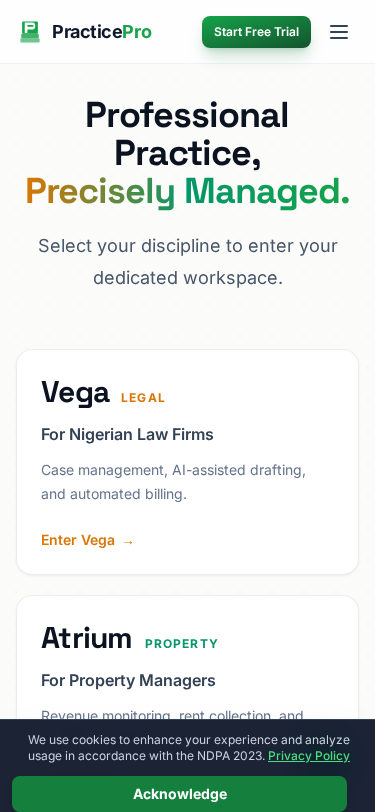
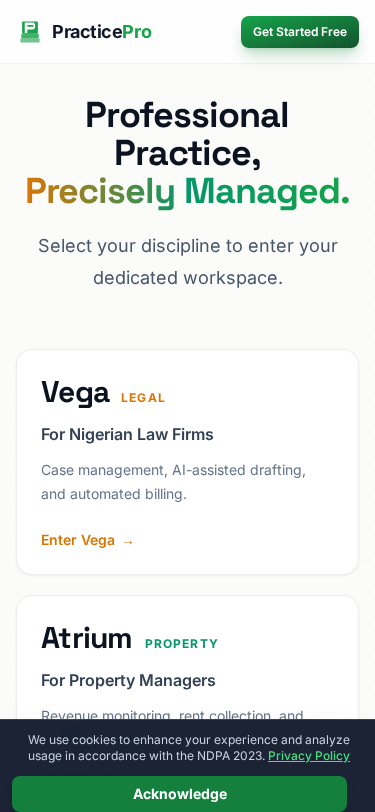
fix: How It Works legibility + product separation + pricing audit changes
How It Works Section:
- Changed 01/02/03 to 1/2/3 (per user request)
- Made step numbers legible: text-slate-100 → solid accent color (amber for Vega, emerald for Atrium)
- Added product-specific steps: Vega steps mention Matter Ingestion Wizard + DraftPro; Atrium steps mention property/tenant setup + rent collection
- Added colored card backgrounds with borders for visual separation
- Fixed truthfulness: 'Matter Intake Wizard' → 'Matter Ingestion Wizard' (the bulk-import wizard is MatterIngestionWizard.tsx, not MatterIntakeWizard.tsx)
- Fixed truthfulness: Atrium step 2 no longer claims the onboarding wizard imports properties (it only creates workspace + plan; property import is manual or via paid Managed Data Migration service)
- Fixed truthfulness: Atrium step 3 changed 'Paystack' to 'bank transfer with proof upload' (Paystack is built but dormant until env vars are flipped)
- FAQ Paystack answer updated to reflect current activation status

Pricing Audit (per PracticePro_Pricing_Audit.pdf):
- Fixed Core naming collision: Vega Core label → 'Free', Atrium Core label → 'Starter' (id stays 'Core' for DB compat)
- Added Atrium monthly billing: Starter N49K/mo, Growth N96.5K/mo, Pro N200K/mo (20% premium over annual)
- Billing toggle now shows for BOTH Vega and Atrium (was Vega-only)
- Fixed Komplete: N2.5M → N2.2M/yr, 10 seats → unlimited seats, added all add-ons included
- Updated WhatsApp limits: Starter 100 → 250 messages/mo
[…]

Changed region(s): [[0.528, 0.0, 0.968, 0.0924]]

diff --git a/src/components/LandingPage.tsx b/src/components/LandingPage.tsx
@@ -1195,7 +1195,8 @@ const PricingSection: React.FC<{ onSignup: (productOverride?: ProductMode) => vo
     const [isHoveringArea, setIsHoveringArea] = useState(false);
     const productMode: ProductMode = isVega ? 'legal' : 'property';
     const tiers = getDisplayTiersForProduct(productMode);
-    const cycle = isVega ? billingCycle : 'annual';  // Atrium: always annual
+    // PRICING AUDIT: Atrium now supports monthly billing too (was annual-only)
+    const cycle = billingCycle;  // Both Vega and Atrium use the toggle
 
     // Scroll reveal
     const headerRef = useScrollReveal<HTMLDivElement>();
@@ -1237,24 +1238,31 @@ const PricingSection: React.FC<{ onSignup: (productOverride?: ProductMode) => vo
                     {isVega ? 'Equip your firm with the tools to manage complex cases and scale efficiently.' : 'Frame your technology cost as a service benefit to your residents.'}
                 </p>
 
-                {/* Billing Toggle (VEGA Only — Atrium is annual-only) */}
-                {isVega && (
-                    <div className="flex items-center justify-center gap-4 mb-8">
-                        <span className={`text-sm font-bold ${billingCycle === 'monthly' ? 'text-slate-900' : 'text-slate-400'}`}>Monthly</span>
-                        <button 
-                            onClick={() => setBillingCycle(billingCycle === 'monthly' ? 'annual' : 'monthly')}
-                            className="relative w-16 h-9 bg-slate-200 rounded-full transition-colors"
-                        >
-                            <div className={`absolute top-1 left-1 w-7 h-7 bg-white rounded-full shadow-md transition-transform duration-300 ${billingCycle === 'annual' ? 'translate-x-7' : ''}`} />
-                        </button>
-                        <div className="flex items-center gap-2">
-                            <span className={`text-sm font-bold ${billingCycle === 'annual' ? 'text-slate-900' : 'text-slate-400'}`}>Annual</span>
-                            <span className="px-2 py-0.5 bg-emerald-100 text-emerald-600 text-2xs font-black uppercase rounded-full border border-emerald-200">
-                                Save 20%
-                            </span>
-                        </div>
+                {/* Billing Toggle — PRICING AUDIT: now available for both Vega AND Atrium */}
+                <div className="flex items-center justify-center gap-4 mb-8">
+                    <span className={`text-sm font-bold ${billingCycle === 'monthly' ? 'text-slate-900' : 'text-slate-400'}`}>Monthly</span>
+                    <button
+                        onClick={() => setBillingCycle(billingCycle === 'monthly' ? 'annual' : 'monthly')}
+                        className="relative w-16 h-9 bg-slate-200 rounded-full transition-colors"
+                        aria-label="Toggle billing cycle"
+                    >
+                        <div className={`absolute top-1 left-1 w-7 h-7 bg-white rounded-full shadow-md transition-transform duration-300 ${billingCycle === 'annual' ? 'translate-x-7' : ''}`} />
+                    </button>
+                    <div className="flex items-center gap-2">
+                        <span className={`text-sm font-bold ${billingCycle === 'annual' ? 'text-slate-900' : 'text-slate-400'}`}>Annual</span>
+                        <span className="px-2 py-0.5 bg-emerald-100 text-emerald-600 text-2xs font-black uppercase rounded-full border border-emerald-200">
+                            Save 20%
+                        </span>
                     </div>
-                )}
+                </div>
+
+                {/* 30-day money-back guarantee badge (PRICING AUDIT) */}
+                <div className="flex justify-center mb-8">
+                    <div className="inline-flex items-center gap-2 px-4 py-2 bg-emerald-50 border border-emerald-200 rounded-full">
+                        <svg className="w-4 h-4 text-emerald-600" fill="none" stroke="currentColor" viewBox="0 0 24 24"><path strokeLinecap="round" strokeLinejoin="round" strokeWidth={2} d="M9 12l2 2 4-4m5.618-4.016A11.955 11.955 0 0112 2.944a11.955 11.955 0 01-8.618 3.04A12.02 12.02 0 003 9c0 5.591 3.824 10.29 9 11.622 5.176-1.332 9-6.03 9-11.622 0-1.042-.133-2.052-.382-3.016z" /></svg>
+                        <span className="text-sm font-semibold text-emerald-700">30-day money-back guarantee on annual plans</span>
+                    </div>
+                </div>
 
                 {!isVega && (
                     <div
@@ -1484,47 +1492,78 @@ const AICapabilitiesSection: React.FC = () => (
     </section>
 );
 
-// ─── HOW IT WORKS SECTION (3 steps) ──────────────────────────────────────
-const HowItWorksSection: React.FC = () => (
-    <section id="howItWorks" className="py-20 md:py-28 bg-white">
-        <div className="container mx-auto px-4 sm:px-6 lg:px-8">
-            <div className="text-center mb-12 md:mb-16">
-                <h2 className="text-3xl md:text-4xl font-extrabold tracking-tight text-slate-900">
-                    Get started in 3 steps
-                </h2>
-                <p className="text-lg text-slate-500 mt-4 max-w-2xl mx-auto">
-                    From sign-up to your first rent collection or legal draft — in minutes, not weeks.
-                </p>
+// ─── HOW IT WORKS SECTION (3 steps, product-specific) ────────────────────
+const HOW_IT_WORKS_STEPS = {
+    vega: [
+        {
+            num: '1',
+            title: 'Create your firm workspace',
+            body: 'Sign up in 2 minutes. No credit card required for trial. Choose Vega and invite your team.',
+        },
+        {
+            num: '2',
+            title: 'Add your matters',
+            body: 'Use the Matter Ingestion Wizard to bulk-import case files from a folder, or create matters one at a time. Link clients, documents, and court dates.',
+        },
+        {
+            num: '3',
+            title: 'Start practicing',
+            body: 'Draft your first legal document with DraftPro, send a court date reminder via WhatsApp, or run an AI case analysis.',
+        },
+    ],
+    atrium: [
+        {
+            num: '1',
+            title: 'Create your property workspace',
+            body: 'Sign up in 2 minutes. No credit card required for trial. Choose Atrium and set up your portfolio.',
+        },
+        {
+            num: '2',
+            title: 'Add your properties & tenants',
+            body: 'Create properties, add units, and assign tenants. Set rent amounts and service charges. Optionally request our Managed Data Migration service to digitize your records for you.',
+        },
+        {
+            num: '3',
+            title: 'Start collecting',
+            body: 'Send your first WhatsApp rent reminder, collect a payment via bank transfer with proof upload, or generate a visitor pass with Sentry Pass.',
+        },
+    ],
+};
+
+const HowItWorksSection: React.FC<{ activeProduct: 'vega' | 'atrium' }> = ({ activeProduct }) => {
+    const steps = HOW_IT_WORKS_STEPS[activeProduct];
+    const accentColor = activeProduct === 'vega' ? 'text-amber-500' : 'text-emerald-500';
+    const accentBg = activeProduct === 'vega' ? 'bg-amber-50' : 'bg-emerald-50';
+    const accentBorder = activeProduct === 'vega' ? 'border-amber-200' : 'border-emerald-200';
+    return (
+        <section id="howItWorks" className="py-20 md:py-28 bg-white">
+            <div className="container mx-auto px-4 sm:px-6 lg:px-8">
+                <div className="text-center mb-12 md:mb-16">
+                    <h2 className="text-3xl md:text-4xl font-extrabold tracking-tight text-slate-900">
+                        Get started in 3 steps
+                    </h2>
+                    <p className="text-lg text-slate-500 mt-4 max-w-2xl mx-auto">
+                        {activeProduct === 'vega'
+                            ? 'From sign-up to your first legal draft — in minutes, not weeks.'
+                            : 'From sign-up to your first rent collection — in minutes, not weeks.'}
+                    </p>
+                </div>
+                <div className="grid grid-cols-1 md:grid-cols-3 gap-8 max-w-5xl mx-auto">
+                    {steps.map((step, i) => (
+                        <div key={i} className={`text-center relative ${accentBg} ${accentBorder} border rounded-2xl p-8`}>
+                            {/* Legible step number — solid accent color, not slate-100 */}
+                            <div className={`text-5xl md:text-6xl font-extrabold ${accentColor} mb-4`}>{step.num}</div>
+                            <h3 className="text-xl font-bold text-slate-900 mb-3">{step.title}</h3>
+                            <p className="text-slate-600 text-sm leading-relaxed">
+                                {step.body}
+                            </p>
+                        </div>
+                    ))}
+                </div>
             </div>
-            <div className="grid grid-cols-1 md:grid-cols-3 gap-8 max-w-5xl mx-auto">
-                {/* Step 1 */}
-                <div className="text-center relative">
-                    <div className="text-6xl md:text-7xl font-extrabold text-slate-100 mb-4">01</div>
-                    <h3 className="text-xl font-bold text-slate-900 mb-3">Create your workspace</h3>
-                    <p className="text-slate-500 text-sm leading-relaxed">
-                        Sign up in 2 minutes. No credit card required for trial. Choose Vega, Atrium, or Komplete.
-                    </p>
-                </div>
-                {/* Step 2 */}
-                <div className="text-center relative">
-                    <div className="text-6xl md:text-7xl font-extrabold text-slate-100 mb-4">02</div>
-                    <h3 className="text-xl font-bold text-slate-900 mb-3">Add your data</h3>
-                    <p className="text-slate-500 text-sm leading-relaxed">
-                        Import your matters, properties, or tenants. Our onboarding wizard guides you through setup.
-                    </p>
-                </div>
-                {/* Step 3 */}
-                <div className="text-center relative">
-                    <div className="text-6xl md:text-7xl font-extrabold text-slate-100 mb-4">03</div>
-                    <h3 className="text-xl font-bold text-slate-900 mb-3">Start managing</h3>
-                    <p className="text-slate-500 text-sm leading-relaxed">
-                        Send your first WhatsApp reminder, collect your first rent payment, or draft your first legal document.
-                    </p>
-                </div>
-            </div>
-        </div>
-    </section>
-);
+        </section>
+    );
+};
 
 // ─── TESTIMONIALS SECTION ────────────────────────────────────────────────
 const TESTIMONIALS = [
@@ -1600,7 +1639,7 @@ const FAQ_ITEMS = [
     },
     {
         q: "Can I pay in Naira?",
-        a: "Absolutely. We integrate with Paystack for card, bank transfer, and USSD payments. Manual bank transfer with proof upload is also supported.",
+        a: "Absolutely. Pay via bank transfer with proof upload, or use Paystack for card and USSD payments (currently activating). Manual bank transfer is the live default today.",
     },
     {
         q: "What's the difference between Vega and Atrium?",
@@ -1934,7 +1973,7 @@ export const LandingPage: React.FC<{ initialProduct?: 'vega' | 'atrium' }> = ({ 
                     <TrustBadgesStrip />
                     <AICapabilitiesSection />
                     <PricingSection onSignup={openSignup} onContactSales={openContactSales} activeProduct={activeProduct} setActiveProduct={setActiveProduct} setProductChosen={setProductChosen} />
-                    <HowItWorksSection />
+                    <HowItWorksSection activeProduct={activeProduct} />
                     <TestimonialsSection />
                     <FAQSection />
                     <FinalCTASection onSignup={openSignup} onContactSales={() => openContactSales('Final CTA')} />

diff --git a/src/constants/tiers.ts b/src/constants/tiers.ts
@@ -18,13 +18,13 @@
 export type ProductMode = 'vega' | 'atrium' | 'unified' | 'legal' | 'property';
 export type TierId = 'Core' | 'Growth' | 'Pro' | 'Enterprise';
 
-// Komplete is a SINGLE flat-rate tier — ₦2.5M/yr (ANNUAL ONLY, no monthly).
-// 1 user account with 10 seats standard. All VEGA + Atrium features.
+// Komplete is a SINGLE flat-rate tier — ₦2.2M/yr (ANNUAL ONLY, no monthly).
+// PRICING AUDIT: Unlimited seats (was 10). All add-ons included.
 // Komplete is the TOP-TIER unified platform — its price MUST NEVER be
 // lower than individual standalone Pro/Enterprise plans.
-// (Atrium Pro = ₦2.1M/yr, so Komplete at ₦2.5M/yr is correctly positioned above.)
+// (Atrium Pro = ₦2.1M/yr, so Komplete at ₦2.2M/yr is correctly positioned above.)
 const KOMPLETE_MONTHLY = null;        // Komplete is NEVER billed monthly
-const KOMPLETE_ANNUAL = 2500000;      // ₦2.5M/yr — 1 user account, 10 seats included
+const KOMPLETE_ANNUAL = 2200000;      // ₦2.2M/yr — unlimited seats, all add-ons (pricing audit)
 
 export interface TierDef {
   id: TierId;
@@ -121,7 +121,7 @@ function buildVegaFeatures(t: Pick<TierDef, 'maxUsers' | 'maxActiveMatters' | 'm
 export const VEGA_TIERS: Record<TierId, TierDef> = {
   Core: {
     id: 'Core',
-    label: 'Core',
+    label: 'Free',                    // PRICING AUDIT: renamed from 'Core' to fix naming collision
     monthlyPrice: 0,
     annualPrice: 0,
     monthlyPriceDisplay: 'Free',
@@ -219,27 +219,30 @@ export const VEGA_TIERS: Record<TierId, TierDef> = {
 };
 
 // ─── ATRIUM (Property) — 2× baseline pricing, operational limits only ─────────
+// PRICING AUDIT: Added monthly billing (20% premium over annual/12)
+// PRICING AUDIT: Renamed 'Core' label to 'Starter' (id stays 'Core' for DB compat)
+// PRICING AUDIT: Increased WhatsApp limits (Starter 100→250, Pro already unlimited)
 export const ATRIUM_TIERS: Record<TierId, TierDef> = {
   Core: {
     id: 'Core',
-    label: 'Core',
-    monthlyPrice: null,              // Atrium is annual-only — NO monthly option
+    label: 'Starter',                  // PRICING AUDIT: renamed from 'Core' to fix naming collision with Vega Free
+    monthlyPrice: 49000,               // PRICING AUDIT: N49,000/mo (20% premium over N490K/yr ÷ 12)
     annualPrice: 490000,
-    monthlyPriceDisplay: '—',        // No monthly option
+    monthlyPriceDisplay: fmt(49000),
     annualPriceDisplay: fmt(490000),
     features: buildAtriumFeatures({
       maxUsers: 1,
       maxUnits: 10,
       maxManagedProperties: 10,
       maxActiveTenants: 15,
-      whatsappLimit: 100,
+      whatsappLimit: 250,              // PRICING AUDIT: increased from 100 to 250
       extras: ['Lease tracking & maintenance log', 'Includes 10 units, then ₦2,700/unit/month'],
     }),
     maxUsers: 1,
     maxUnits: 10,
     maxManagedProperties: 10,
     maxActiveTenants: 15,
-    whatsappLimit: 100,
+    whatsappLimit: 250,
     maxCaseFileStorageGb: null,
     maxActiveMatters: null,
     // Overage pricing: ₦2,700/unit/month for units 11-25, forced upgrade at 25
@@ -251,9 +254,9 @@ export const ATRIUM_TIERS: Record<TierId, TierDef> = {
   Growth: {
     id: 'Growth',
     label: 'Growth',
-    monthlyPrice: null,              // Atrium is annual-only
+    monthlyPrice: 96500,               // PRICING AUDIT: N96,500/mo (20% premium)
     annualPrice: 965000,
-    monthlyPriceDisplay: '—',
+    monthlyPriceDisplay: fmt(96500),
     annualPriceDisplay: fmt(965000),
     features: buildAtriumFeatures({
       maxUsers: 5,
@@ -279,9 +282,9 @@ export const ATRIUM_TIERS: Record<TierId, TierDef> = {
   Pro: {
     id: 'Pro',
     label: 'Pro',
-    monthlyPrice: null,              // Atrium is annual-only
+    monthlyPrice: 200000,              // PRICING AUDIT: N200,000/mo (20% premium over N2.1M/yr ÷ 12)
     annualPrice: 2100000,
-    monthlyPriceDisplay: '—',
+    monthlyPriceDisplay: fmt(200000),
     annualPriceDisplay: fmt(2100000),
     features: buildAtriumFeatures({
       maxUsers: null,
@@ -328,11 +331,11 @@ export const ATRIUM_TIERS: Record<TierId, TierDef> = {
 };
 
 // ─── KOMPLETE (Unified) — single tier, all features ──────────────────────────
-// Only shown when user selects the Unified/Komplete product.
-// ₦2.5M/yr ANNUAL ONLY (no monthly billing option). 1 user account with 10
-// seats standard. All VEGA + Atrium features.
+// PRICING AUDIT: N2.2M/yr (down from N2.5M), unlimited seats (up from 10),
+// all add-ons included. Position as "Everything. Everyone. One price."
 // Komplete is the TOP-TIER unified platform — its price MUST NEVER be
 // lower than individual standalone Pro/Enterprise plans.
+// (Atrium Pro = ₦2.1M/yr, so Komplete at ₦2.2M/yr is correctly positioned above.)
 export const KOMPLETE_TIER: TierDef = {
   id: 'Core',                       // Uses Core as TierId for compatibility
   label: 'Komplete',
@@ -341,16 +344,21 @@ export const KOMPLETE_TIER: TierDef = {
   monthlyPriceDisplay: '—',         // No monthly option for Komplete
   annualPriceDisplay: fmt(KOMPLETE_ANNUAL),
   features: [
-    '1 User Account — 10 Seats Standard (Included)',
+    'Unlimited Seats (was 10 — now unlimited per pricing audit)',
     'Unlimited Matters & Units',
     'Unlimited Active Tenants',
     'Unlimited WhatsApp Reminders',
     'ARIA® AI Copilot (Uncapped Priority)',
     'Full Legal + Property Suite',
+    'Sentry Pass (VMS) included — ₦15K/mo value',
+    '500 GB shared storage',
+    'Dedicated account manager',
+    'Priority phone & WhatsApp support',
+    'Custom integrations included',
     'Automated Retainer Billing & Client Auto-Invoicing',
     'Billing Monitor — pending queue, lawyer override controls',
   ],
-  maxUsers: 10,              // 10 seats standard (not null/unlimited)
+  maxUsers: null,              // PRICING AUDIT: unlimited seats (was 10)
   maxUnits: null,
   maxManagedProperties: null,
   maxActiveTenants: null,

diff --git a/src/components/settings/SubscriptionSettings.tsx b/src/components/settings/SubscriptionSettings.tsx
@@ -284,19 +284,14 @@ const BillingCalculator: React.FC<{
         const rate = seatRateForTier(VEGA_TIERS.Growth);
         baseCost = rate; addOnCost = additionalSeats * rate; addOnLabel = "Addt'l Seats (Growth Rate)";
     } else if (currentPlan === SubscriptionPlan.Komplete) {
-        // CRO AUDIT FIX: Komplete is annual-only at ₦2.5M/yr with 10 seats included.
-        // Seats 2-10 are included in the base price (no extra charge).
-        // Seats 11+ are billed pro-rata at the Komplete annual rate / 10 / 12 per seat per month.
-        const kompleteAnnual = KOMPLETE_TIER.annualPrice ?? 2500000;
+        // PRICING AUDIT: Komplete is annual-only at ₦2.2M/yr with UNLIMITED seats.
+        // No seat add-on billing — all seats are included.
+        const kompleteAnnual = KOMPLETE_TIER.annualPrice ?? 2200000;
         const baseRate = Math.round(kompleteAnnual / 12);  // monthly-equiv for display
         baseCost = baseRate;
-        // First 9 additional seats (positions 2-10) are included; only bill beyond 10
-        const billableExtraSeats = Math.max(0, additionalSeats - 9);
-        const extraSeatRate = Math.round(baseRate / 10);  // pro-rata: 1/10th of monthly-equiv
-        addOnCost = billableExtraSeats * extraSeatRate;
-        addOnLabel = billableExtraSeats > 0
-            ? `Addt'l Seats (Komplete Pro-Rata) — ${additionalSeats - billableExtraSeats} included`
-            : `Addt'l Seats (Included in Komplete — ${10 - (1 + additionalSeats)} remaining)`;
+        // PRICING AUDIT: unlimited seats — no add-on cost for extra seats
+        addOnCost = 0;
+        addOnLabel = 'All seats included (unlimited)';
     } else if (currentPlan === SubscriptionPlan.Pro) {
         const rate = seatRateForTier(VEGA_TIERS.Pro);
         baseCost = rate; addOnCost = additionalSeats * rate; addOnLabel = "Addt'l Seats (Pro Rate)";

diff --git a/convex/tierLimits.ts b/convex/tierLimits.ts
@@ -10,8 +10,9 @@
  */
 
 export const ATRIUM_LIMITS: Record<string, { units: number; tenants: number; whatsapp: number; overageRate?: number; overageStartUnit?: number; forcedUpgradeCap?: number }> = {
-  Starter:    { units: 10,  tenants: 15,   whatsapp: 100, overageRate: 2700, overageStartUnit: 11, forcedUpgradeCap: 25 },
-  Core:       { units: 10,  tenants: 15,   whatsapp: 100, overageRate: 2700, overageStartUnit: 11, forcedUpgradeCap: 25 },
+  // PRICING AUDIT: whatsapp increased from 100 to 250 for Starter/Core
+  Starter:    { units: 10,  tenants: 15,   whatsapp: 250, overageRate: 2700, overageStartUnit: 11, forcedUpgradeCap: 25 },
+  Core:       { units: 10,  tenants: 15,   whatsapp: 250, overageRate: 2700, overageStartUnit: 11, forcedUpgradeCap: 25 },
   Growth:     { units: 25,  tenants: 40,   whatsapp: 500, overageRate: 2100, overageStartUnit: 26, forcedUpgradeCap: 100 },
   Pro:        { units: 100, tenants: 999999, whatsapp: 999999, overageRate: 1600, overageStartUnit: 101, forcedUpgradeCap: 400 },
   Enterprise: { units: 999999, tenants: 999999, whatsapp: 999999 },

diff --git a/index.html b/index.html
@@ -106,7 +106,7 @@
       {
         "@type": "Offer",
         "name": "Komplete",
-        "price": "2500000",
+        "price": "2200000",
         "priceCurrency": "NGN",
         "priceValidUntil": "2026-12-31"
       }
@@ -146,7 +146,7 @@
         "name": "Can I pay in Naira?",
         "acceptedAnswer": {
           "@type": "Answer",
-          "text": "Absolutely. We integrate with Paystack for card, bank transfer, and USSD payments. Manual bank transfer with proof upload is also supported."
+          "text": "Absolutely. Pay via bank transfer with proof upload, or use Paystack for card and USSD payments (currently activating). Manual bank transfer is the live default today."
         }
       },
       {
